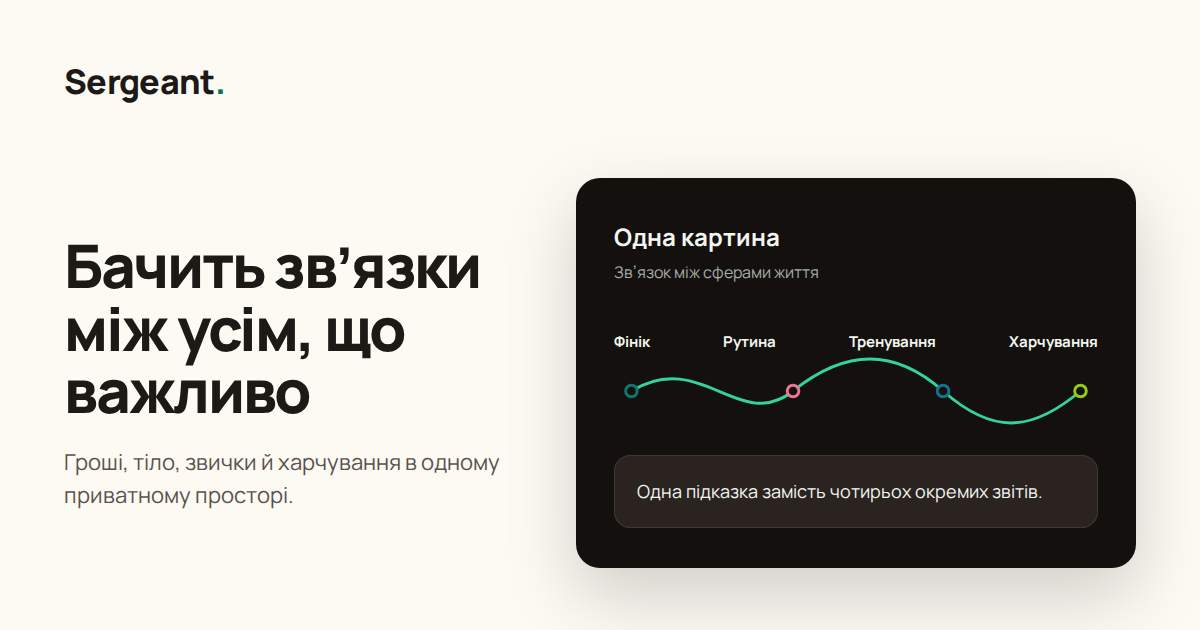
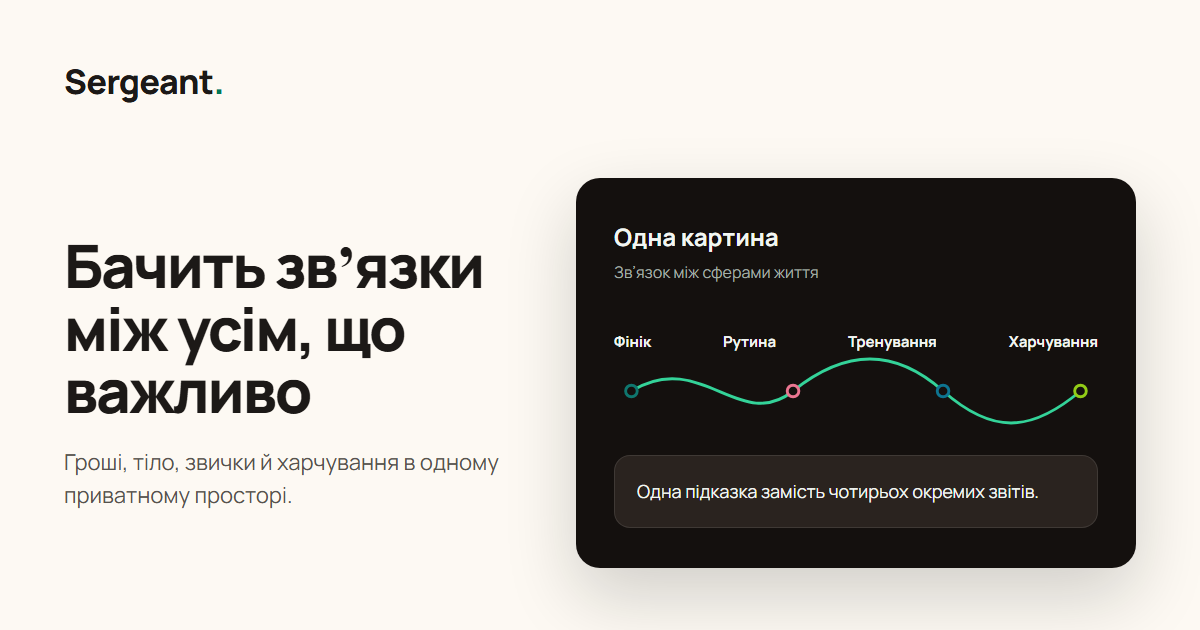
fix(web): сказати на сторінці їжі, що фото – платна функція, і дати їй превʼю
Сайт суперечив сам собі: гайд про фото-калорії прямо каже «входить у
платний план», а /yizha про це мовчала, хоча обидва фото-ендпоінти
стоять за requirePlan(pool, "pro") і на них тримаються дві секції
сторінки. Додав одне речення поруч із переліком джерел – з наголосом,
що безкоштовний облік лишається повним і без фото.

Заразом /contact отримала власну og-картинку: сторінку додали вчора, і
вона єдина з контентних ділила спільну. Перегенерований набір інших
картинок відкотив – генератор малює їх недетерміновано, і десять
однакових за змістом файлів у діфі лише шум.

diff --git a/apps/landing/src/pages/YizhaPage.tsx b/apps/landing/src/pages/YizhaPage.tsx
@@ -92,6 +92,12 @@ export default function YizhaPage() {
           вчорашнього дня. AI лише додає швидкості. Джерел чотири: Пошук, Скан,
           Фото, Своє.
         </p>
+        <p className={body}>
+          Одне уточнення про фото: розпізнавання страви зі знімка входить у
+          платний план. Пошук, штрихкод, збережені страви й ручний ввід –
+          безкоштовні, і на них тримається весь облік. Фото прискорює, але не є
+          умовою.
+        </p>
         <h3 className={h3}>Два ручні режими</h3>
         <p className={body}>
           З упаковки, де числа на 100 г, і готова страва, де числа на порцію.
